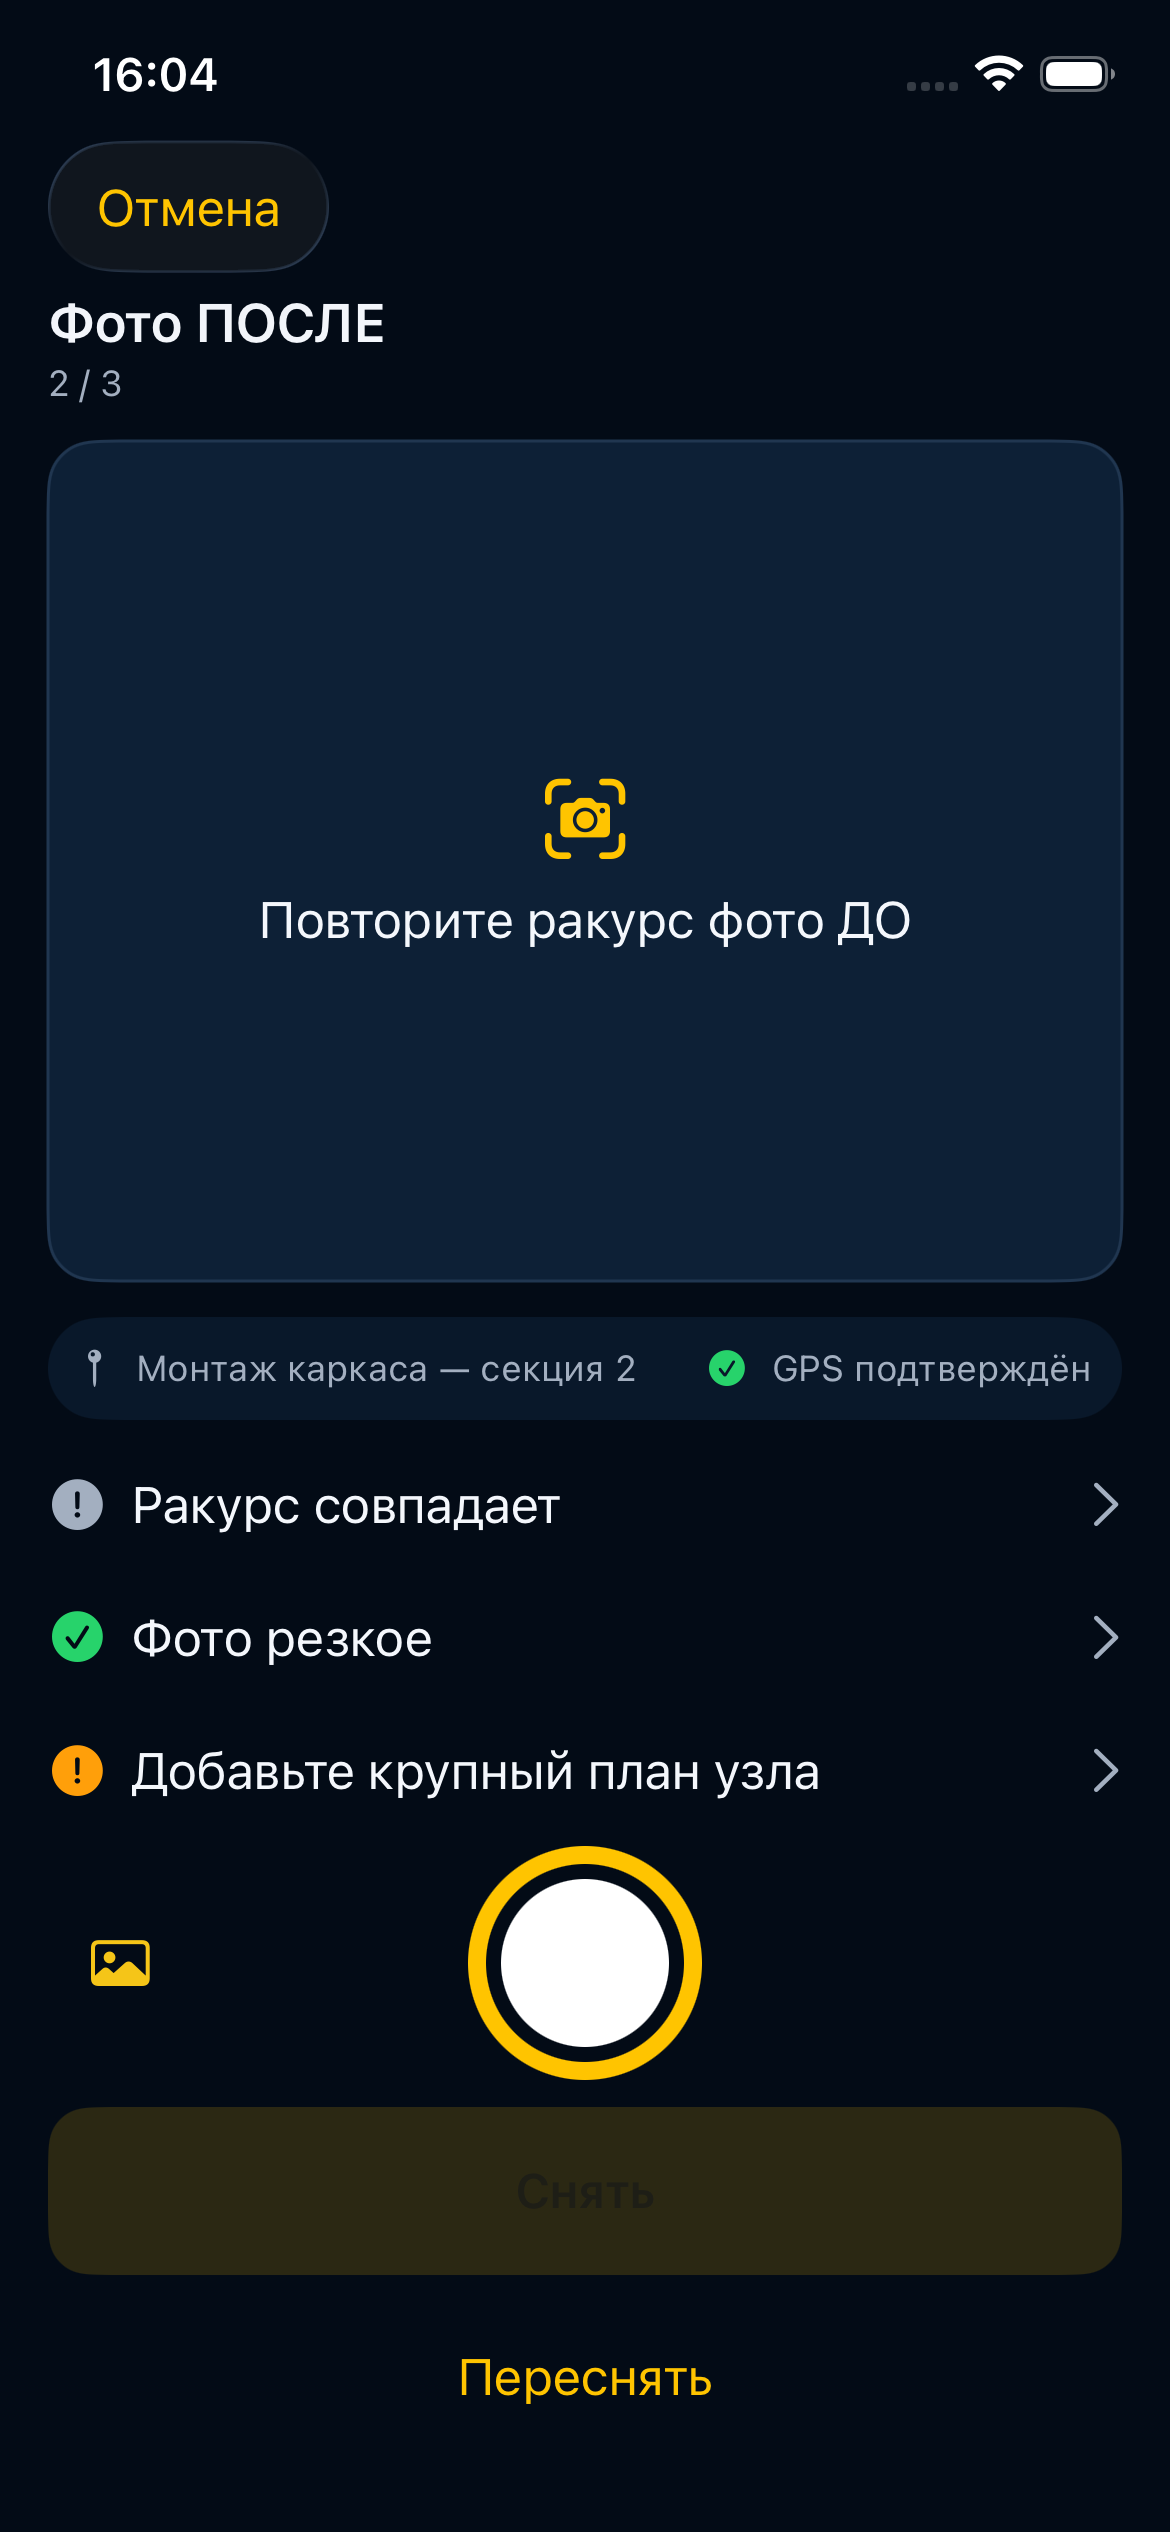
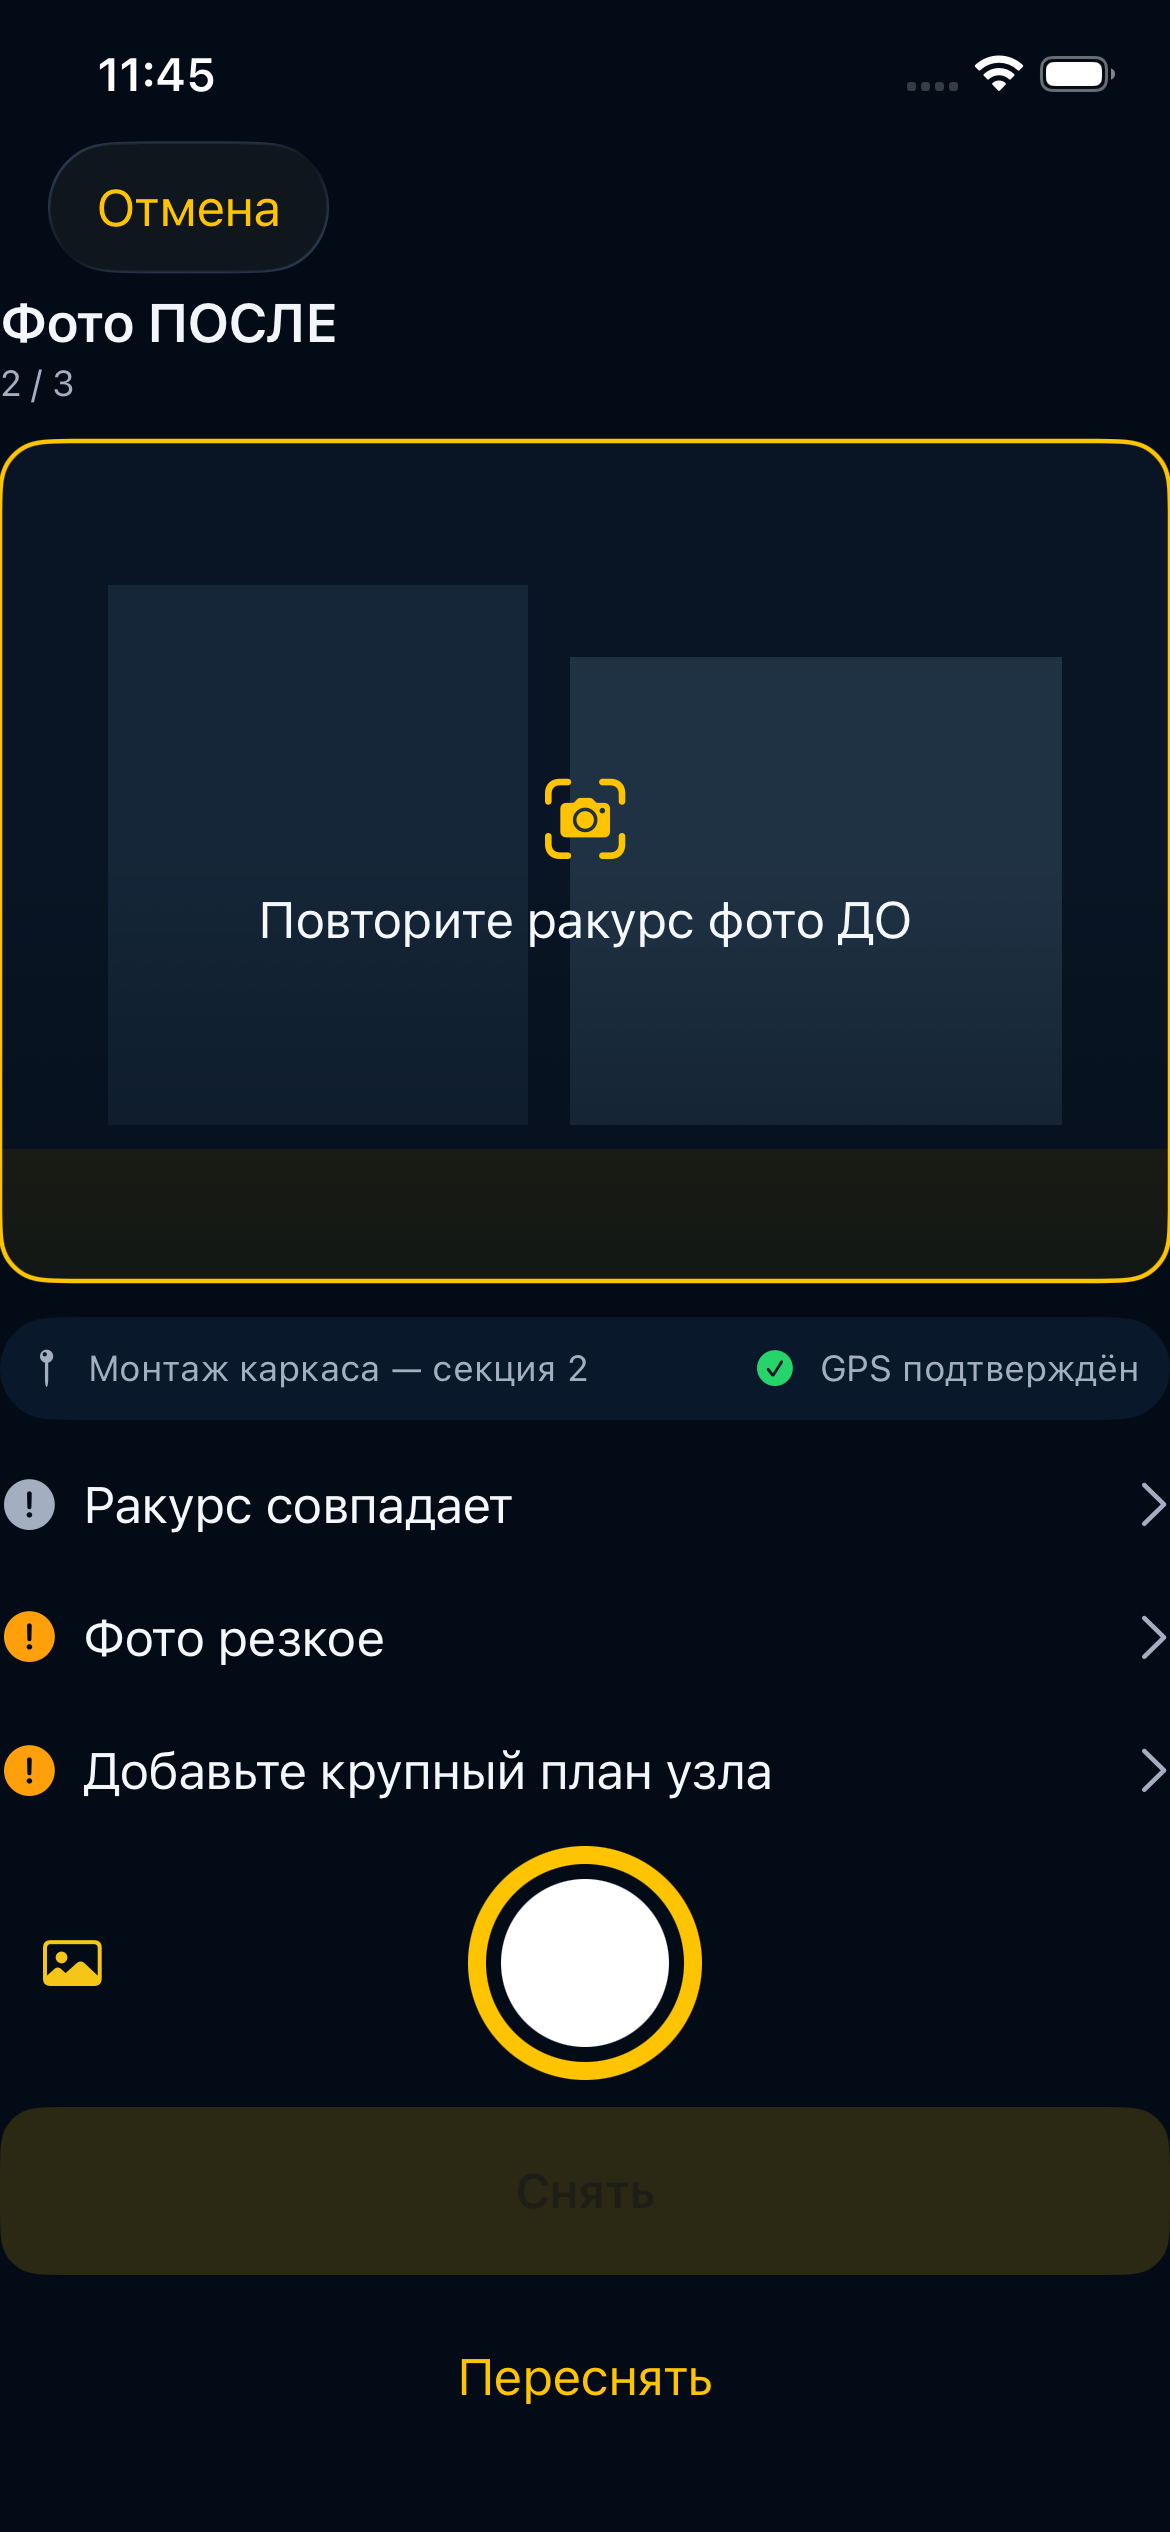
fix(ios): show BEFORE ghost on Worker AFTER camera
Field workers can align the after shot to the stored before frame, and sharpness is no longer marked OK without a photo.

diff --git a/ios/AiStroykaWorker/AiStroykaWorker/Design/WorkerV43Components.swift b/ios/AiStroykaWorker/AiStroykaWorker/Design/WorkerV43Components.swift
@@ -44,6 +44,123 @@ struct WorkerV43HeroPhoto<Overlay: View>: View {
     }
 }
 
+struct WorkerV43PhotoComparisonFrame: View {
+    let kind: WorkerPhotoKind
+    let captured: UIImage?
+    let beforeReference: UIImage?
+    let angleOK: Bool?
+
+    private var mode: WorkerPhotoComparisonMode {
+        WorkerPhotoComparisonMode.resolve(
+            kind: kind,
+            hasCaptured: captured != nil,
+            hasBeforeReference: beforeReference != nil
+        )
+    }
+
+    private var frameTint: Color {
+        switch angleOK {
+        case true:
+            return WorkerV43.success
+        case false:
+            return WorkerV43.warning
+        case nil:
+            return kind == .after ? WorkerV43.yellow : WorkerV43.border
+        }
+    }
+
+    var body: some View {
+        ZStack {
+            switch mode {
+            case .split:
+                if let captured, let beforeReference {
+                    HStack(spacing: 3) {
+                        pane(beforeReference, caption: NSLocalizedString("wrk_v43_compare_before", comment: ""))
+                        pane(captured, caption: NSLocalizedString("wrk_v43_compare_after", comment: ""))
+                    }
+                    .accessibilityIdentifier("pilot_worker_camera_split")
+                }
+            case .capturedOnly:
+                if let captured {
+                    Image(uiImage: captured)
+                        .resizable()
+                        .scaledToFill()
+                }
+            case .ghostBefore:
+                ghost
+            case .placeholder:
+                placeholder
+            }
+        }
+        .frame(maxWidth: .infinity, minHeight: 280)
+        .clipShape(RoundedRectangle(cornerRadius: 16, style: .continuous))
+        .overlay(
+            RoundedRectangle(cornerRadius: 16, style: .continuous)
+                .stroke(frameTint, lineWidth: kind == .after ? 1.5 : 1)
+        )
+    }
+
+    private var ghost: some View {
+        ZStack {
+            if let beforeReference {
+                Image(uiImage: beforeReference)
+                    .resizable()
+                    .scaledToFill()
+                    .opacity(0.4)
+            }
+            LinearGradient(
+                colors: [.clear, WorkerV43.bg.opacity(0.55)],
+                startPoint: .center,
+                endPoint: .bottom
+            )
+            VStack(spacing: 8) {
+                Image(systemName: "camera.viewfinder")
+                    .font(.system(size: 28))
+                    .foregroundStyle(WorkerV43.yellow)
+                Text(NSLocalizedString("wrk_v43_repeat_angle", comment: ""))
+                    .foregroundStyle(WorkerV43.textPrimary)
+                    .multilineTextAlignment(.center)
+            }
+            .padding()
+        }
+    }
+
+    private var placeholder: some View {
+        ZStack {
+            WorkerV43.cardStrong
+            VStack(spacing: 8) {
+                Image(systemName: "camera.viewfinder")
+                    .font(.system(size: 28))
+                    .foregroundStyle(WorkerV43.yellow)
+                Text(kind == .after
+                     ? NSLocalizedString("wrk_v43_repeat_angle", comment: "")
+                     : NSLocalizedString("wrk_v43_capture_overview", comment: ""))
+                    .foregroundStyle(WorkerV43.textPrimary)
+                    .multilineTextAlignment(.center)
+            }
+            .padding()
+        }
+    }
+
+    private func pane(_ image: UIImage, caption: String) -> some View {
+        ZStack(alignment: .bottomLeading) {
+            Image(uiImage: image)
+                .resizable()
+                .scaledToFill()
+            Text(caption)
+                .font(.system(size: 11, weight: .semibold))
+                .foregroundStyle(WorkerV43.textPrimary)
+                .padding(.horizontal, 8)
+                .padding(.vertical, 4)
+                .background(WorkerV43.bg.opacity(0.72))
+                .clipShape(Capsule())
+                .padding(8)
+        }
+        .frame(maxWidth: .infinity, maxHeight: .infinity)
+        .clipped()
+    }
+}
+
 struct WorkerV43Card<Content: View>: View {
     var padding: CGFloat = WorkerV43.space4
     var radius: CGFloat = WorkerV43.radiusCard

diff --git a/ios/AiStroykaWorker/AiStroykaWorker/Views/CameraEvidenceView.swift b/ios/AiStroykaWorker/AiStroykaWorker/Views/CameraEvidenceView.swift
@@ -37,31 +37,11 @@ struct CameraEvidenceView: View {
                 }
                 Spacer()
             }
-            ZStack {
-                if let image {
-                    Image(uiImage: image)
-                        .resizable()
-                        .scaledToFill()
-                } else {
-                    WorkerV43.cardStrong
-                    VStack(spacing: 8) {
-                        Image(systemName: "camera.viewfinder")
-                            .font(.system(size: 28))
-                            .foregroundStyle(WorkerV43.yellow)
-                        Text(kind == .after
-                             ? NSLocalizedString("wrk_v43_repeat_angle", comment: "")
-                             : NSLocalizedString("wrk_v43_capture_overview", comment: ""))
-                            .foregroundStyle(WorkerV43.textPrimary)
-                            .multilineTextAlignment(.center)
-                    }
-                    .padding()
-                }
-            }
-            .frame(maxWidth: .infinity, minHeight: 280)
-            .clipShape(RoundedRectangle(cornerRadius: 16, style: .continuous))
-            .overlay(
-                RoundedRectangle(cornerRadius: 16, style: .continuous)
-                    .stroke(WorkerV43.border, lineWidth: 1)
+            WorkerV43PhotoComparisonFrame(
+                kind: kind,
+                captured: image,
+                beforeReference: beforeReference,
+                angleOK: angleOK
             )
             HStack {
                 Image(systemName: "mappin")
@@ -80,7 +60,11 @@ struct CameraEvidenceView: View {
             .clipShape(Capsule())
 
             check(NSLocalizedString("wrk_v43_angle_ok", comment: ""), ok: angleOK == true, warning: angleOK == false)
-            check(NSLocalizedString("wrk_v43_sharp_ok", comment: ""), ok: WorkerPhotoEvidence.isSharp(image))
+            check(
+                NSLocalizedString("wrk_v43_sharp_ok", comment: ""),
+                ok: image != nil && WorkerPhotoEvidence.isSharp(image),
+                warning: image == nil
+            )
             if kind == .after {
                 check(NSLocalizedString("wrk_v43_need_closeup", comment: ""), ok: image != nil, warning: image == nil)
             }
@@ -122,12 +106,28 @@ struct CameraEvidenceView: View {
         }
         .padding(WorkerV43.screenX)
         .background(WorkerV43.bg.ignoresSafeArea())
-        .accessibilityIdentifier(kind == .after ? "pilot_worker_camera_after" : "pilot_worker_camera_before")
+        .overlay(alignment: .topLeading) {
+            Color.clear
+                .frame(width: 8, height: 8)
+                .accessibilityIdentifier(kind == .after ? "pilot_worker_camera_after" : "pilot_worker_camera_before")
+        }
+        .overlay(alignment: .topTrailing) {
+            if kind == .after, beforeReference != nil, image == nil {
+                Color.clear
+                    .frame(width: 8, height: 8)
+                    .accessibilityIdentifier("pilot_worker_camera_ghost")
+                    .accessibilityLabel("before-ghost")
+            }
+        }
         .onAppear {
             location.requestIfNeeded(scope: WorkerSettingsStore.load().geoScope)
             cameraDenied = WorkerPhotoEvidence.cameraDenied
             lowStorage = WorkerPhotoEvidence.isLowStorage()
             beforeReference = WorkerPhotoEvidence.loadReference(taskId: task.id, kind: .before)
+            if beforeReference == nil, kind == .after,
+               WorkerV43Preview.isEnabled || task.id.hasPrefix("preview-task") {
+                beforeReference = WorkerV43PreviewCatalog.beforeReferenceImage()
+            }
         }
         .fullScreenCover(isPresented: $showCamera) {
             CameraPicker(image: $image)

diff --git a/ios/AiStroykaWorker/AiStroykaWorkerUITests/WorkerV43UITests.swift b/ios/AiStroykaWorker/AiStroykaWorkerUITests/WorkerV43UITests.swift
@@ -78,6 +78,8 @@ final class WorkerV43UITests: XCTestCase {
         app.launchEnvironment["AISTROYKA_WORKER_V43_SCREEN"] = "after"
         app.launch()
         XCTAssertTrue(app.descendants(matching: .any)["pilot_worker_preview_after"].waitForExistence(timeout: 20))
+        XCTAssertTrue(app.descendants(matching: .any)["pilot_worker_camera_after"].waitForExistence(timeout: 8))
+        XCTAssertTrue(app.descendants(matching: .any)["pilot_worker_camera_ghost"].waitForExistence(timeout: 5))
 
         app.terminate()
         app.launchEnvironment["AISTROYKA_WORKER_V43_SCREEN"] = "report"
@@ -148,6 +150,11 @@ final class WorkerV43UITests: XCTestCase {
         XCTAssertFalse(Self.isLowStorage(availableBytes: 80_000_000))
         XCTAssertNil(Self.angleMatch(hasCurrent: false, hasReference: true))
         XCTAssertNil(Self.angleMatch(hasCurrent: true, hasReference: false))
+        XCTAssertEqual(Self.comparisonMode(kindAfter: true, captured: false, before: true), "ghostBefore")
+        XCTAssertEqual(Self.comparisonMode(kindAfter: true, captured: true, before: true), "split")
+        XCTAssertEqual(Self.comparisonMode(kindAfter: true, captured: true, before: false), "capturedOnly")
+        XCTAssertEqual(Self.comparisonMode(kindAfter: false, captured: false, before: true), "placeholder")
+        XCTAssertEqual(Self.comparisonMode(kindAfter: false, captured: true, before: false), "capturedOnly")
     }
 
     func testPhoneNormalization() {
@@ -209,6 +216,12 @@ final class WorkerV43UITests: XCTestCase {
     private static func angleMatch(hasCurrent: Bool, hasReference: Bool) -> Bool? {
         guard hasCurrent, hasReference else { return nil }
         return true
+    }
+
+    private static func comparisonMode(kindAfter: Bool, captured: Bool, before: Bool) -> String {
+        if captured { return kindAfter && before ? "split" : "capturedOnly" }
+        if kindAfter && before { return "ghostBefore" }
+        return "placeholder"
     }
 
     private static func phone(_ raw: String) -> String? {

diff --git a/ios/AiStroykaWorker/AiStroykaWorker/Services/WorkerV43Models.swift b/ios/AiStroykaWorker/AiStroykaWorker/Services/WorkerV43Models.swift
@@ -207,6 +207,26 @@ enum WorkerPhotoKind: String {
     case issue = "issue_evidence"
 }
 
+enum WorkerPhotoComparisonMode: String, Equatable {
+    case placeholder
+    case ghostBefore
+    case split
+    case capturedOnly
+
+    static func resolve(
+        kind: WorkerPhotoKind,
+        hasCaptured: Bool,
+        hasBeforeReference: Bool
+    ) -> WorkerPhotoComparisonMode {
+        if hasCaptured {
+            if kind == .after && hasBeforeReference { return .split }
+            return .capturedOnly
+        }
+        if kind == .after && hasBeforeReference { return .ghostBefore }
+        return .placeholder
+    }
+}
+
 enum WorkerSyncLabel {
     static func from(status: SyncStatus, lastSync: Date?) -> (String, WorkerV43StatusPill.Kind) {
         switch status {
@@ -539,7 +559,7 @@ enum WorkerPhotoEvidence {
     }
 
     static func isSharp(_ image: UIImage?) -> Bool {
-        guard let image else { return true }
+        guard let image else { return false }
         let pixels = image.size.width * image.size.height * max(image.scale, 1)
         if pixels < minPixelCount { return false }
         return laplacianVariance(image) >= minLaplacianVariance || pixels >= 400_000

diff --git a/ios/AiStroykaWorker/AiStroykaWorker/Services/WorkerV43PreviewCatalog.swift b/ios/AiStroykaWorker/AiStroykaWorker/Services/WorkerV43PreviewCatalog.swift
@@ -305,6 +305,23 @@ enum WorkerV43PreviewCatalog {
         )
     }
 
+    /// Structured stand-in for a BEFORE frame so the AFTER ghost overlay is visible in catalog.
+    static func beforeReferenceImage() -> UIImage {
+        let size = CGSize(width: 390, height: 280)
+        let renderer = UIGraphicsImageRenderer(size: size)
+        return renderer.image { ctx in
+            let rect = CGRect(origin: .zero, size: size)
+            UIColor(red: 18 / 255, green: 36 / 255, blue: 58 / 255, alpha: 1).setFill()
+            ctx.fill(rect)
+            UIColor(red: 48 / 255, green: 78 / 255, blue: 108 / 255, alpha: 1).setFill()
+            ctx.fill(CGRect(x: 36, y: 48, width: 140, height: 180))
+            UIColor(red: 72 / 255, green: 108 / 255, blue: 138 / 255, alpha: 1).setFill()
+            ctx.fill(CGRect(x: 190, y: 72, width: 164, height: 156))
+            UIColor(red: 1, green: 196 / 255, blue: 0, alpha: 0.35).setFill()
+            ctx.fill(CGRect(x: 0, y: 236, width: 390, height: 44))
+        }
+    }
+
     static func seedProgressIfNeeded() {
         var progress = WorkerTaskProgressStore.load(taskId: "preview-task-1")
         if progress.completedStepIndexes.isEmpty {

diff --git a/STATUS.md b/STATUS.md
@@ -2,8 +2,8 @@
 
 > Live project status. Keep this short and mobile-readable.
 
-**Last updated:** 2026-08-26  
-**Updated by:** Worker issue PATCH safety after [#260](https://github.com/2qjckdknjf-ctrl/Aistroyka-web/pull/260)
+**Last updated:** 2026-08-29  
+**Updated by:** Worker AFTER-photo comparison overlay on `fix/worker-after-photo-comparison`
 
 ---
 
@@ -11,14 +11,14 @@
 
 | Field | Value |
 |---|---|
-| **Active slice** | Stop worker issue PATCH from wiping defect text or reopening closed rows |
-| **Branch / worktree** | `fix/worker-issue-patch-safe` @ `/Users/alex/Projects/AISTROYKA-ios-worker-v4-3` |
-| **Runtime** | staging + production `buildStamp.sha7` = `d2e22f9` (PR #260) |
-| **Next** | Land this slice. Twilio SID/token still empty. Reviewer PAT still cannot approve |
+| **Active slice** | Show BEFORE ghost / split on Worker AFTER camera (render 08) |
+| **Branch / worktree** | `fix/worker-after-photo-comparison` @ `/Users/alex/Projects/AISTROYKA-ios-worker-v4-3` |
+| **Runtime** | staging + production `buildStamp.sha7` = `ed1b7e2` (PR #261) |
+| **Next** | Land this slice. Docs STATUS [#262](https://github.com/2qjckdknjf-ctrl/Aistroyka-web/pull/262) still needs non-author APPROVED. Twilio SID/token empty. TestFlight `NO` here |
 
 ## Notes
 
-Primary checkout `/Users/alex/Projects/AISTROYKA` was not modified. This worktree `APPROVE_TESTFLIGHT_UPLOAD` is `NO`.
+Primary checkout `/Users/alex/Projects/AISTROYKA` was not modified. Draft [#259](https://github.com/2qjckdknjf-ctrl/Aistroyka-web/pull/259) closed as superseded by #261.
 
 ---
 
